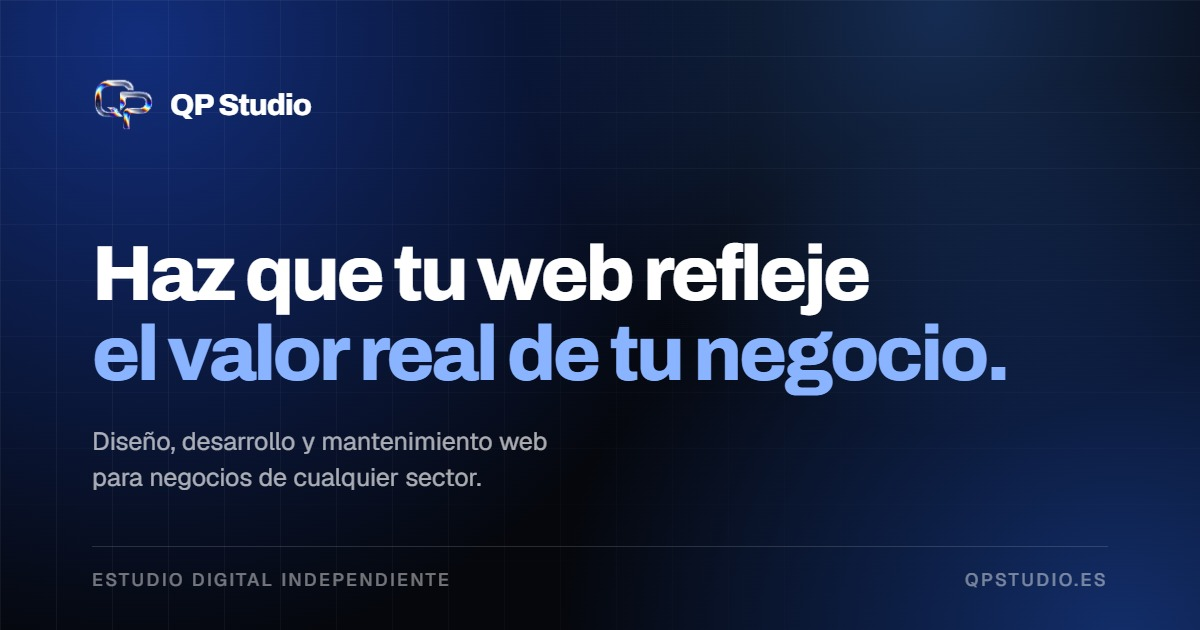
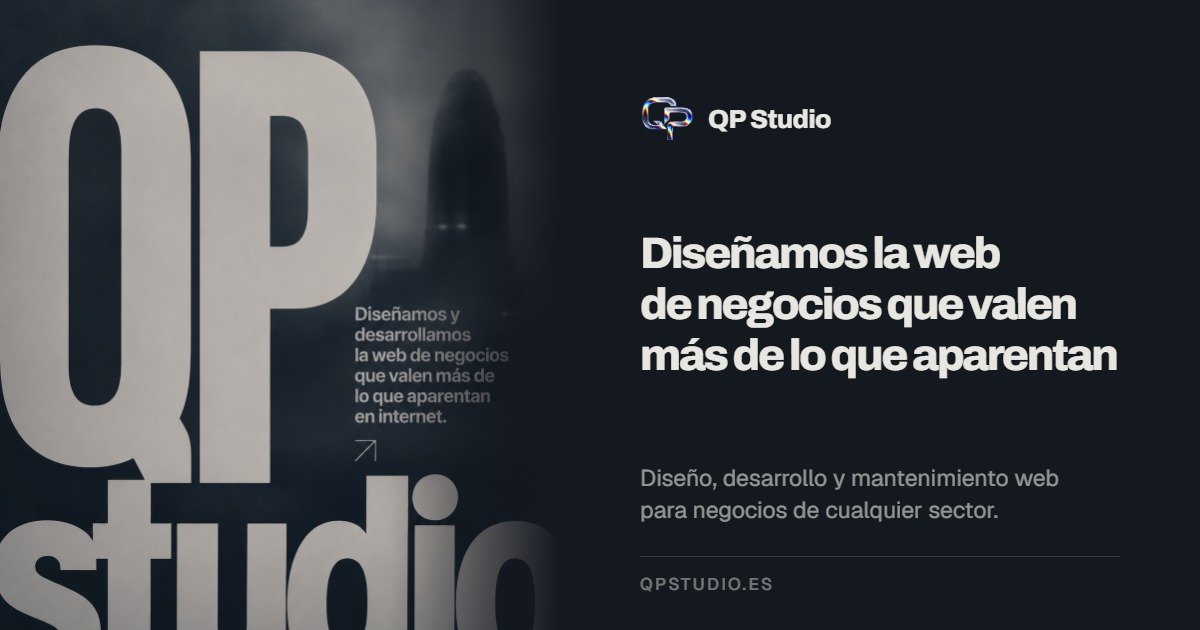
Imagen de portada con tu cartel, y documento el proceso entero
La imagen que habías subido estaba en la raíz del proyecto, no en img/, y
mi primera búsqueda filtraba por la fecha de hoy, así que no la vi. La
muevo a img/cartel.png.

Es vertical, formato póster, y una portada social necesita 1200x630
apaisado: recortarla sin más se comería media composición. Así que la uso
a la izquierda, encuadrada por las letras, con un desvanecido hacia el
fondo, y a la derecha el mensaje en la tipografía del sitio. El titular se
ajusta solo al hueco disponible, para que cambiar el texto no lo saque del
marco.

82 KB en JPEG. La versión anterior, generada sin tu cartel, se sustituye.

DOCUMENTACIÓN
DEPLOY.md explica ahora el orden del build y por qué es ese orden, el
aviso de que index.html no se toca en local, cómo añadir un texto
editable, cómo crear el Deploy Hook que hace funcionar el botón de
Publicar, qué genera el paso de SEO y qué cuesta la analítica: cada página
vista es una escritura en Postgres, y con el tráfico de hoy son céntimos,
pero con miles de visitas diarias habrá que agregar en vez de guardar una
fila por visita.

diff --git a/DEPLOY.md b/DEPLOY.md
@@ -102,6 +102,111 @@ Vercel emite el certificado solo.
   dispositivo son práctica común, pero Apple restringe el uso de su marca en
   material comercial. Decide si las dejas o las cambias por un render genérico.
 
+## Cómo se construye la web
+
+`npm run build` es lo único que hay que ejecutar, y es lo que corre Vercel
+en cada despliegue. Hace cuatro cosas **en este orden**, que importa:
+
+1. **`extraer-textos`** lee los `data-txt` de `index.html` y guarda el texto
+   original de cada uno en `contenidos-base.json`. Es lo que el panel enseña
+   como "texto de fábrica" y lo que restaura el botón de Restaurar.
+2. **`build-pages`** regenera las páginas interiores desde la plantilla común.
+3. **`aplicar-contenidos`** mete en `index.html` los textos cambiados desde el
+   panel. Va después del paso 1 para que el original extraído sea el del
+   fichero y no uno ya sustituido.
+4. **`seo`** pone canonical, Open Graph, JSON-LD y genera `sitemap.xml` y
+   `robots.txt`. Va el último porque el paso 2 reescribe las páginas
+   interiores enteras y borraría sus etiquetas.
+
+Ningún paso que hable con la base de datos puede tumbar el despliegue: si
+Neon no contesta, la web sale con los textos del fichero. Es preferible
+publicar el contenido de ayer que no publicar nada.
+
+### Cuidado con index.html
+
+`index.html` guarda los textos de fábrica y vive en Git. El paso 3 solo lo
+reescribe **dentro del despliegue** (Vercel pone `VERCEL=1`); en local avisa
+de lo que haría pero no toca el fichero. Si lo sobrescribieras aquí, el
+siguiente commit subiría como "original" un texto que solo era un cambio del
+panel, y el de verdad se perdería.
+
+Para reproducirlo en local y comprobarlo:
+
+```bash
+node scripts/aplicar-contenidos.mjs --forzar
+```
+
+Y después **deshaz el cambio**, o perderás el original.
+
+### Añadir un texto editable
+
+Dos pasos:
+
+1. En `index.html`, ponle `data-txt="seccion.clave"` al elemento.
+2. En `js/admin.js`, añade `{ k: 'seccion.clave', et: 'Etiqueta' }` a la
+   sección que toque. Si el texto es largo, añade `larga: true`.
+
+El valor no se escribe en ningún sitio: sale del propio HTML.
+
+### Publicar desde el panel
+
+Los textos se guardan al instante, pero la web es estática: el HTML lleva el
+texto ya escrito dentro. Eso es lo que la hace rápida y lo que permite que
+Google lea el contenido definitivo sin ejecutar JavaScript. El precio es que
+hay que reconstruir, y de eso se encarga el botón **Publicar**.
+
+Ese botón llama a un **Deploy Hook** de Vercel. Para crearlo:
+
+1. Vercel → proyecto `qpstudio` → **Settings → Git → Deploy Hooks**
+2. Nombre `panel`, rama `main`, **Create Hook**
+3. Copia la URL y ponla como variable `VERCEL_DEPLOY_HOOK` en los tres
+   entornos.
+
+Sin esa variable el panel guarda igual y lo dice claramente: los cambios
+saldrán en la siguiente publicación, que ocurre en cada `git push`.
+
+## SEO
+
+Todo sale de `scripts/seo.mjs`, de una sola lista de páginas. Añadir una
+página es añadir una línea ahí.
+
+- **Dominio canónico:** `https://www.qpstudio.es`. El dominio sin `www`
+  redirige, así que anunciar esa versión costaría un salto de más en cada
+  enlace y Google vería dos direcciones para lo mismo.
+- **Datos estructurados:** un solo grafo JSON-LD enlazado por `@id`
+  (ProfessionalService, WebSite, WebPage y BreadcrumbList en las interiores).
+  La portada añade `FAQPage`, sacado de las propias preguntas del HTML, que
+  es lo que puede darte el desplegable de preguntas en los resultados.
+- **`admin` queda fuera** del sitemap y bloqueada en `robots.txt`.
+- El paso es **idempotente**: quita sus propias etiquetas antes de volver a
+  ponerlas, así que ejecutarlo mil veces no duplica nada.
+
+### La imagen de portada
+
+`img/og.jpg`, 1200×630. Se compuso a partir de `img/cartel.png`, que es
+vertical y no vale tal cual para redes. Está dibujada en un lienzo y no
+capturada de pantalla: la captura sale al tamaño de la ventana y quedaría
+borrosa. En JPEG son 82 KB; el mismo PNG pesaba 791 KB.
+
+Si algún día cambia el cartel o el mensaje, hay que rehacerla.
+
+## Analítica
+
+Propia, en la pestaña **Visitas** del panel. Sin cookies, sin terceros y sin
+nada que identifique a nadie.
+
+No se guarda la IP: se guarda un HMAC de la IP y el navegador **mezclado con
+la fecha del día**. Como la fecha entra en el cálculo, el mismo visitante da
+un valor distinto mañana. Sirve para contar cuánta gente entra hoy y no para
+seguir a nadie, y por eso no hace falta banner de consentimiento.
+
+Las visitas a `/admin` no se cuentan: no son tráfico y ensucian los números.
+
+**Lo que cuesta:** cada página vista es una escritura en Postgres, y con
+scale-to-zero eso despierta el cómputo. Con el tráfico de hoy son céntimos.
+Si algún día el sitio recibe miles de visitas diarias, habrá que agregarlas
+en vez de guardar una fila por visita.
+
 ## Base de datos (Neon)
 
 El proyecto es `lingering-shadow-50729060`, en la organización `qpstudio`,

diff --git a/README.md b/README.md
@@ -16,7 +16,11 @@ aviso-legal.html · privacidad.html · cookies.html
 build-pages.mjs     genera las páginas interiores desde una plantilla común
 api/                funciones de Vercel: formulario y panel
 db/                 migraciones SQL, por orden de nombre
-scripts/            migrar, clave del panel, comprobarla, desbloquear
+scripts/build.mjs   construye la web: es lo único que hay que ejecutar
+scripts/            extraer textos, aplicar los del panel, SEO, migrar,
+                    clave del panel, comprobarla, desbloquear
+contenidos-base.json textos de fábrica, generados desde index.html
+sitemap.xml · robots.txt · img/og.jpg   generados por el paso de SEO
 neon.ts             servicios de Neon declarados como código
 css/styles.css      tokens, reset, tipografía, nav, botones, footer
 css/sections.css    arte por sección de la home
